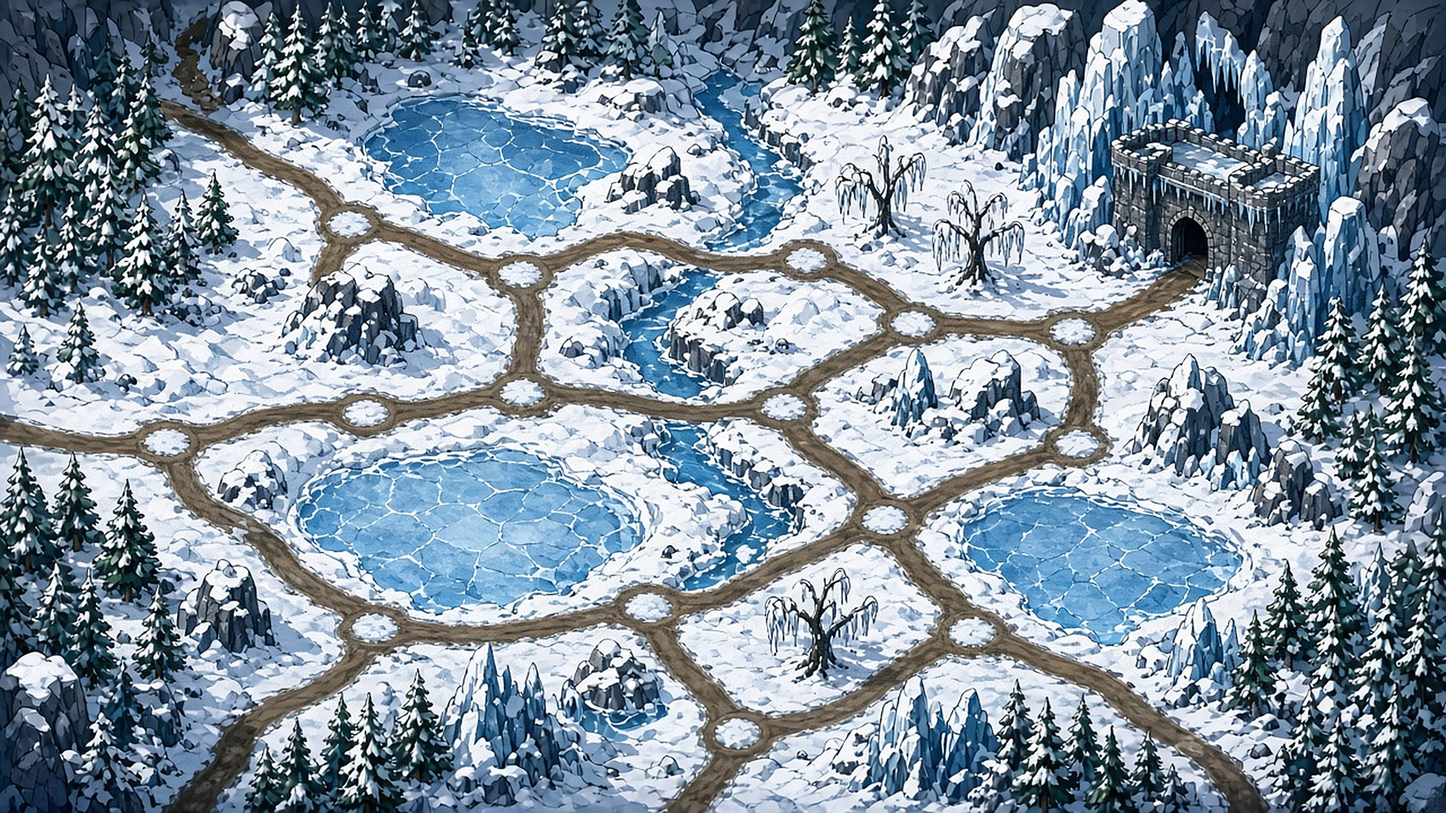
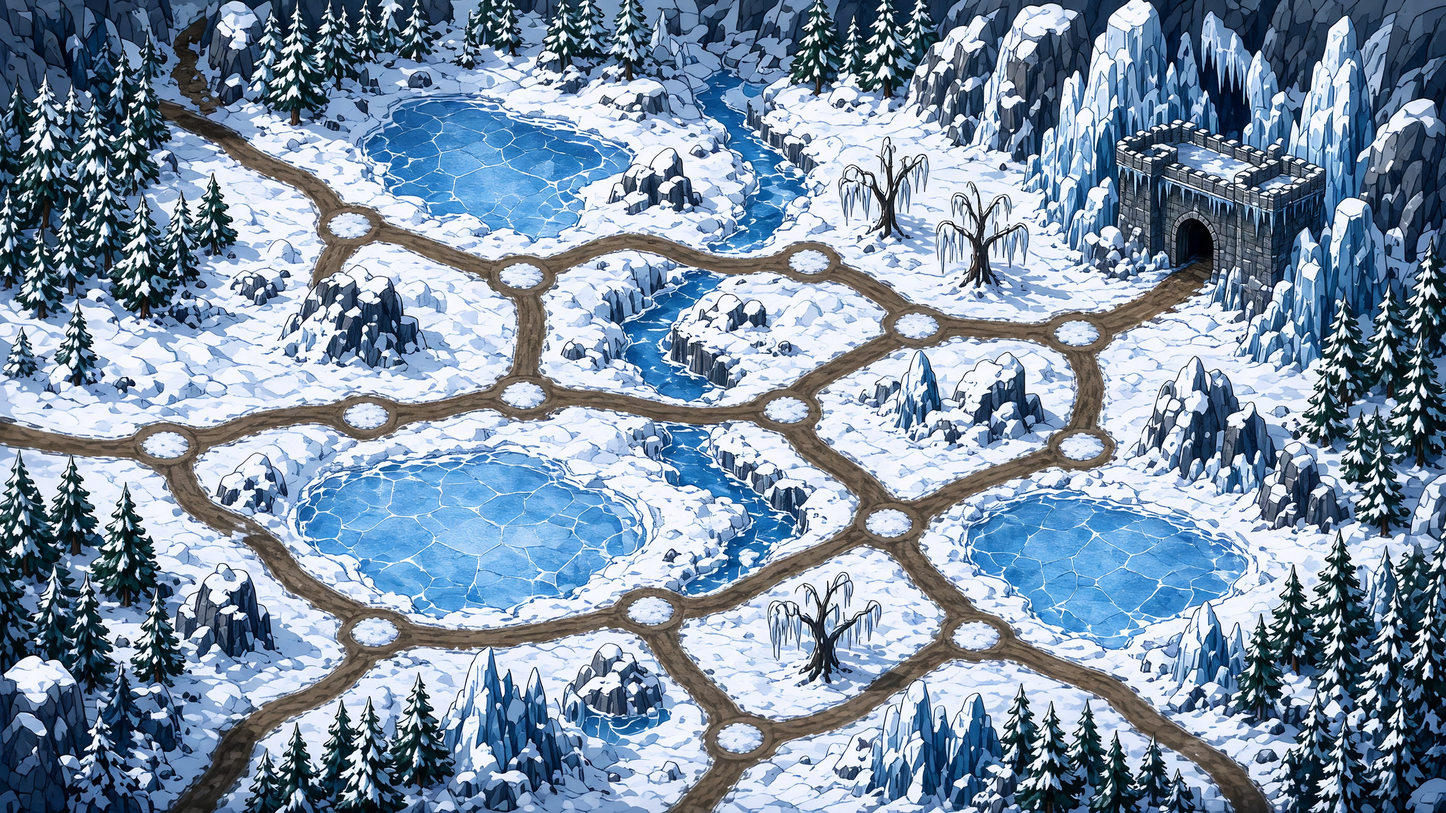
Screen 2 at 2k; the south-east spur re-traced onto its road
- map2.jpg: a 2k edit of d-3 with the same layout (2816x1584, stretched
  1.23x instead of 2.7x), so the map is no longer blocky on a phone.
- grok.py: --resolution, --aspect and --quality pass through to the API.
- screen2.ts: the south-east spur ran a tile below the painted road;
  the lost one is now node_34, and the screen-2 quests' escort follows.
- DECISIONS #76 follow-up; ART.md.

Claude-Session: https://claude.ai/code/session_019Lkx2XUgC2w8gfzapayGjN

diff --git a/re-rpg/src/data/maps/screen2.ts b/re-rpg/src/data/maps/screen2.ts
@@ -27,9 +27,9 @@ export const SCREEN2 = `
 #######.==~~~~~~~~~~~~==o==..==x=~~~~~~~~#######
 #######..===o===o====o=.........=~~~~~~~~#######
 #######.....=..^^^^..=........==o=.......#######
-#######...===..^^^^..==o...=o==^.===.....#######
-#######..#o####^^^^....=.===.^^^...n==...#######
-#######.===####^^^^....=o=...^^^.####==..#######
-#######o=######.........=........#####o..#######
+#######...===..^^^^..==o...=o==^.===n....#######
+#######..#o####^^^^....=.===.^^^....===..#######
+#######.===####^^^^....=o=...^^^.#####==.#######
+#######o=######.........=........#####.o.#######
 #######..######.........o........#####...#######
 `;

diff --git a/re-rpg/scripts/grok.py b/re-rpg/scripts/grok.py
@@ -2,7 +2,7 @@
 """Call xAI's Grok Imagine API from the repo (docs/ART.md, "Generating art with the API").
 
 usage:
-  grok.py image "<prompt>" --out art-src/x.jpg [--n 1] [--model grok-imagine-image-2.0]
+  grok.py image "<prompt>" --out art-src/x.jpg [--n 1] [--model grok-imagine-image-2.0] [--resolution 2k] [--quality high] [--aspect 16:9]
   grok.py edit  "<prompt>" --ref art-src/hero_warrior_styleC.jpg [--ref ...] --out art-src/x.jpg
   grok.py video "<prompt>" [--ref still.jpg] --out art-src/x.mp4 [--duration 6]
   grok.py models
@@ -76,6 +76,10 @@ def main() -> None:
     p.add_argument('--n', type=int, default=1)
     p.add_argument('--model')
     p.add_argument('--duration', type=int, default=6)
+    # Image size and finish (the API's own names): 1k is the default; 2k is about twice as wide.
+    p.add_argument('--resolution', choices=['1k', '1.5k', '2k'])
+    p.add_argument('--quality', choices=['low', 'medium', 'high', 'auto'])
+    p.add_argument('--aspect', help='aspect_ratio, e.g. 16:9, 2:1, auto')
     a = p.parse_args()
     if a.cmd == 'models':
         print('\n'.join(m['id'] for m in call('GET', '/models')['data'])); return
@@ -84,6 +88,9 @@ def main() -> None:
     if a.cmd in ('image', 'edit'):
         model = a.model or 'grok-imagine-image-2.0'
         body: dict = {'model': model, 'prompt': a.prompt, 'n': a.n}
+        if a.resolution: body['resolution'] = a.resolution
+        if a.quality: body['quality'] = a.quality
+        if a.aspect: body['aspect_ratio'] = a.aspect
         if a.cmd == 'edit':
             if not a.ref: sys.exit('edit needs --ref')
             # One reference goes as an object; several go as a list of URL strings (the API refuses objects there).

diff --git a/re-rpg/scripts/author-map.py b/re-rpg/scripts/author-map.py
@@ -79,16 +79,16 @@ def tundra():
         [(26, 13), (26, 14), (27, 14), (27, 15), (29, 15), (29, 17)],
         [(24, 24), (25, 24), (25, 23), (27, 23), (27, 22), (30, 22), (30, 21), (32, 21)],
         [(32, 21), (32, 19), (29, 19), (29, 17)],
-        [(32, 21), (33, 21), (33, 22), (35, 22), (35, 23), (37, 23), (37, 24), (38, 24), (38, 25)],  # the south-east spur
+        [(32, 21), (33, 21), (33, 22), (36, 22), (36, 23), (38, 23), (38, 24), (39, 24), (39, 25)],  # the south-east spur
     ]
     for path in paths:
         for (x0, y0), (x1, y1) in zip(path, path[1:]):
             assert x0 == x1 or y0 == y1, (x0, y0, x1, y1)
             for y in range(min(y0, y1), max(y0, y1)+1):
                 for x in range(min(x0, x1), max(x0, x1)+1): g[y][x] = '='
-    nodes = {'E': [(1, 14)], 'q': [(12, 13)], 'n': [(35, 23)], 'B': [(39, 6)], 'x': [(38, 9), (21, 13), (31, 19), (8, 18)], 'o': [
+    nodes = {'E': [(1, 14)], 'q': [(12, 13)], 'n': [(36, 22)], 'B': [(39, 6)], 'x': [(38, 9), (21, 13), (31, 19), (8, 18)], 'o': [
         (5, 14), (17, 13), (11, 7), (17, 9), (12, 20), (21, 20), (26, 8), (30, 10), (35, 10), (26, 13), (35, 14), (29, 17), (32, 21), (24, 24),
-        (5, 3), (11, 9), (7, 25), (24, 26), (38, 25),
+        (5, 3), (11, 9), (7, 25), (24, 26), (39, 25),
         (9, 13), (14, 8), (8, 5), (10, 23), (16, 20), (23, 22), (24, 19), (28, 22), (27, 15), (28, 12), (22, 8), (33, 15), (33, 10)]}
     for ch, ps in nodes.items():
         for x, y in ps: g[y][x] = ch

diff --git a/re-rpg/docs/ART.md b/re-rpg/docs/ART.md
@@ -172,7 +172,10 @@ the road with nothing in it; no text, icons, characters or UI.
 1. `grok.py image` with a text prompt only (in `art-src/map2/d-3.jpg.json`): a tundra with winding
    brown roads, crossroads, frozen lakes and an ice fortress. Image-to-image from a grid layout
    came out as city blocks (`art-src/map2/compare-layout-first.jpg`).
-2. Upscale the pick to 72 px per tile (`public/art/c/map2.jpg`, 48x27 tiles).
+2. Get it at 2k: `grok.py edit "Recreate this exact image at higher resolution..." --ref <pick>
+   --resolution 2k --aspect 16:9` keeps the layout and returns 2816x1584 (the default 1k is
+   1280x720, too soft once stretched). Upscale that to 72 px per tile (`public/art/c/map2.jpg`,
+   48x27 tiles).
 3. Trace the roads as corner-point paths in `scripts/author-map.py tundra`, every junction a node,
    and check with `?dev`. Diagonal roads become staircases.
 
@@ -220,6 +223,9 @@ uploaded:
 - `python3 scripts/grok.py video "<prompt>" [--ref still.jpg] --out ....mp4 [--duration 6]`
   submits a video and waits for it.
 - `python3 scripts/grok.py models` lists the models.
+- `--resolution 1k|1.5k|2k`, `--aspect 16:9|2:1|…` and `--quality` go to the API as they are. The
+  default is 1k (1280x720 at 16:9); use 2k for anything shown large, like a map. The default image
+  model refuses `--quality high`.
 
 Each output gets a `<out>.json` beside it: the prompt, model, references and the reply, including
 `usage.cost_in_usd_ticks`. An edit cost 700,000,000 ticks (about $0.07). Keep the outputs and

diff --git a/re-rpg/docs/DECISIONS.md b/re-rpg/docs/DECISIONS.md
@@ -991,3 +991,23 @@ Pinned in `src/core/combat/ratings.test.ts`. Screenshots in `docs/audit/stats-20
 - Adept Necromancer in a duo;
 - Knight Andre;
 - a cursed boar.
+
+## 76 follow-up. Screen 2 at 2k, and one spur re-traced
+
+Designer's report: screen 2 "looks very low res and pixels".
+- **What was wrong:** the source painting was Grok's default 1k output, 1280x720, stretched 2.7x
+  to 3456x1944. That is about 27 source pixels per tile, against screen 1's 55.
+- **The fix:**
+  - the API takes `resolution` (1k, 1.5k, 2k), `quality` and `aspect_ratio`, which `grok.py` now
+    passes (`--resolution 2k --aspect 16:9`);
+  - an edit of d-3 asked to "recreate this exact image at higher resolution" came back at
+    2816x1584 with the layout unchanged, so the trace still fits;
+  - it ships as `map2.jpg`, stretched only 1.23x (screen 1 is 1.3x). The source is
+    `art-src/map2/hd-a.jpg`.
+  - The `grok-imagine-image-quality` model at `quality high` (`hd-q.jpg`) came out softer, and the
+    default model refuses `quality high`.
+- **Found on the way:** a full-size overlay showed that the south-east spur (Q to the treasure at
+  the bottom edge) ran about a tile below the painted road. It was wrong in d-3 too; the
+  low-zoom check had missed it. It is re-traced, so the lost one's node is now `node_34`, and the
+  two screen-2 quests' escort points there. Every other stretch was checked against the painting
+  at full size and is on its road.
